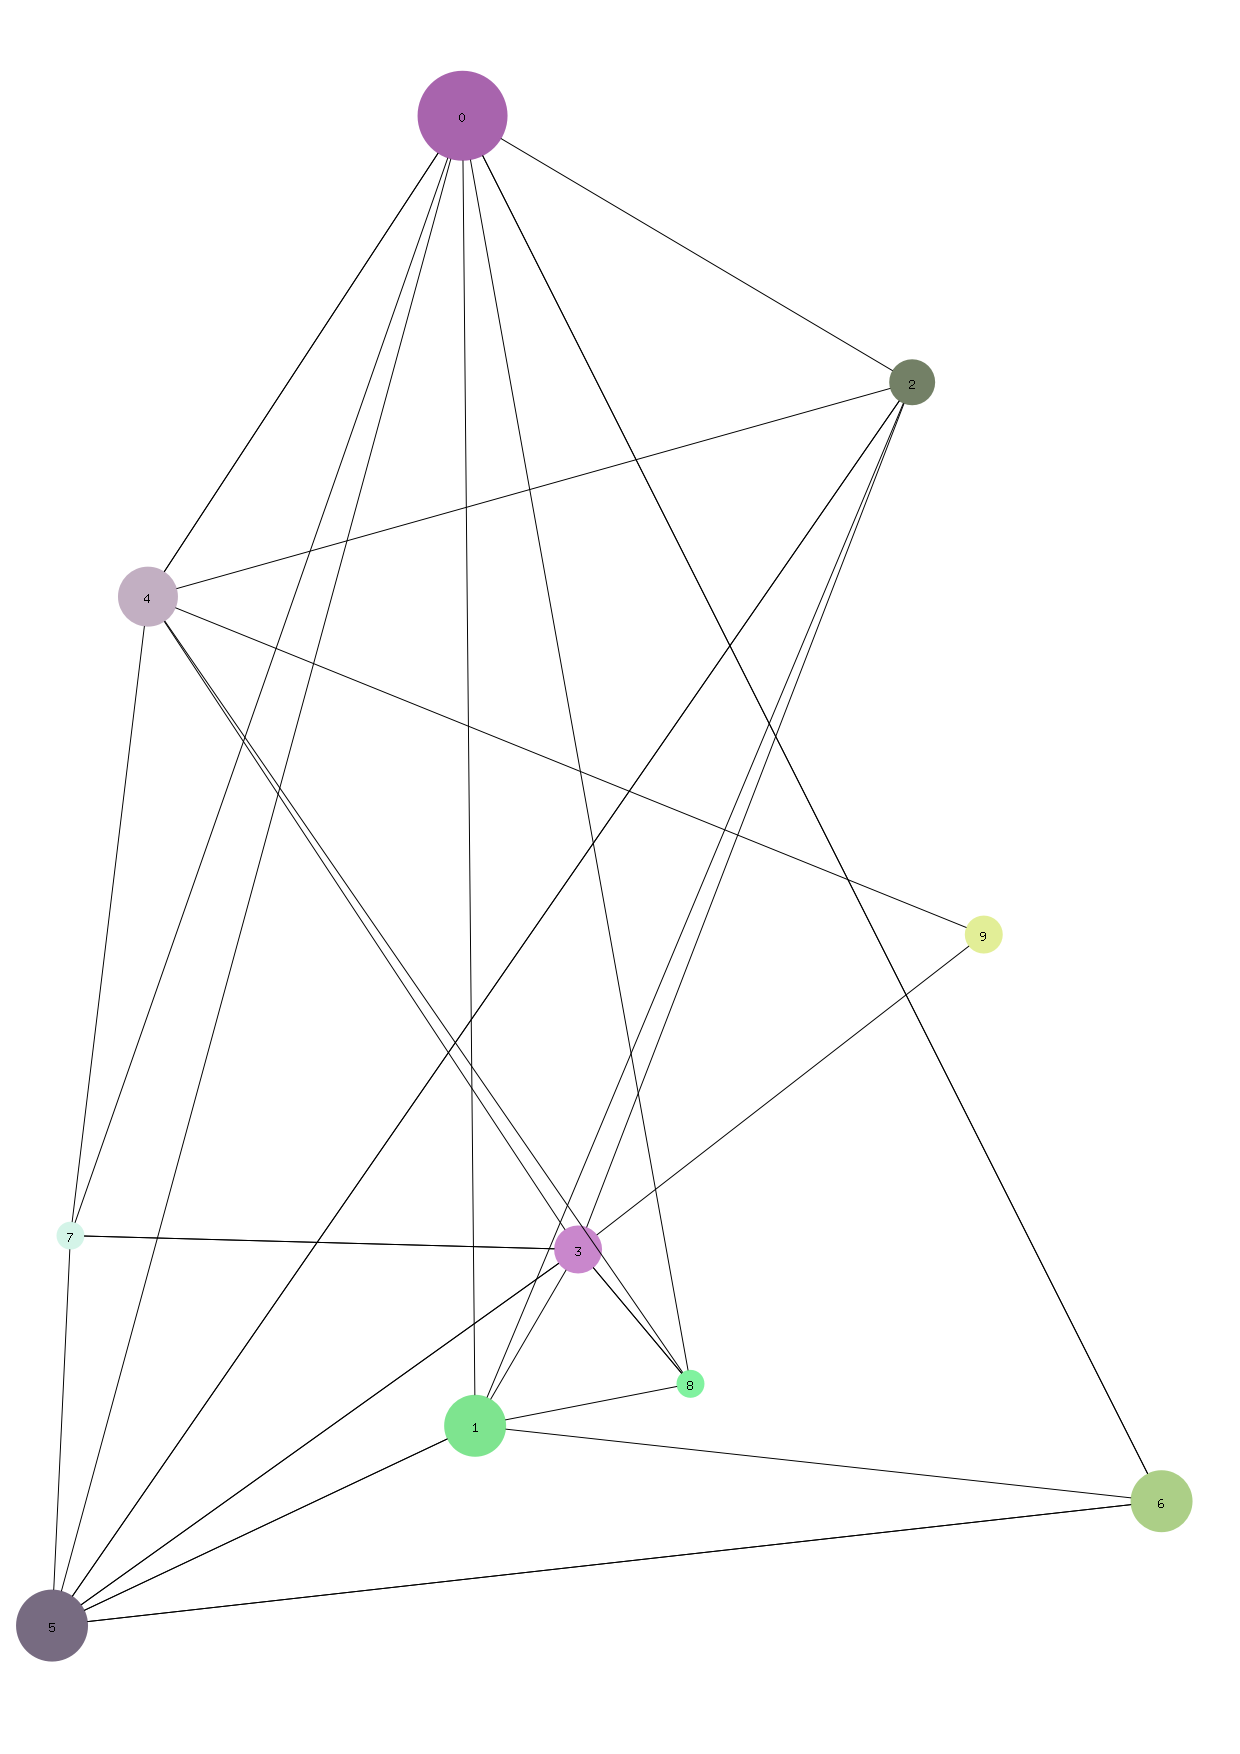
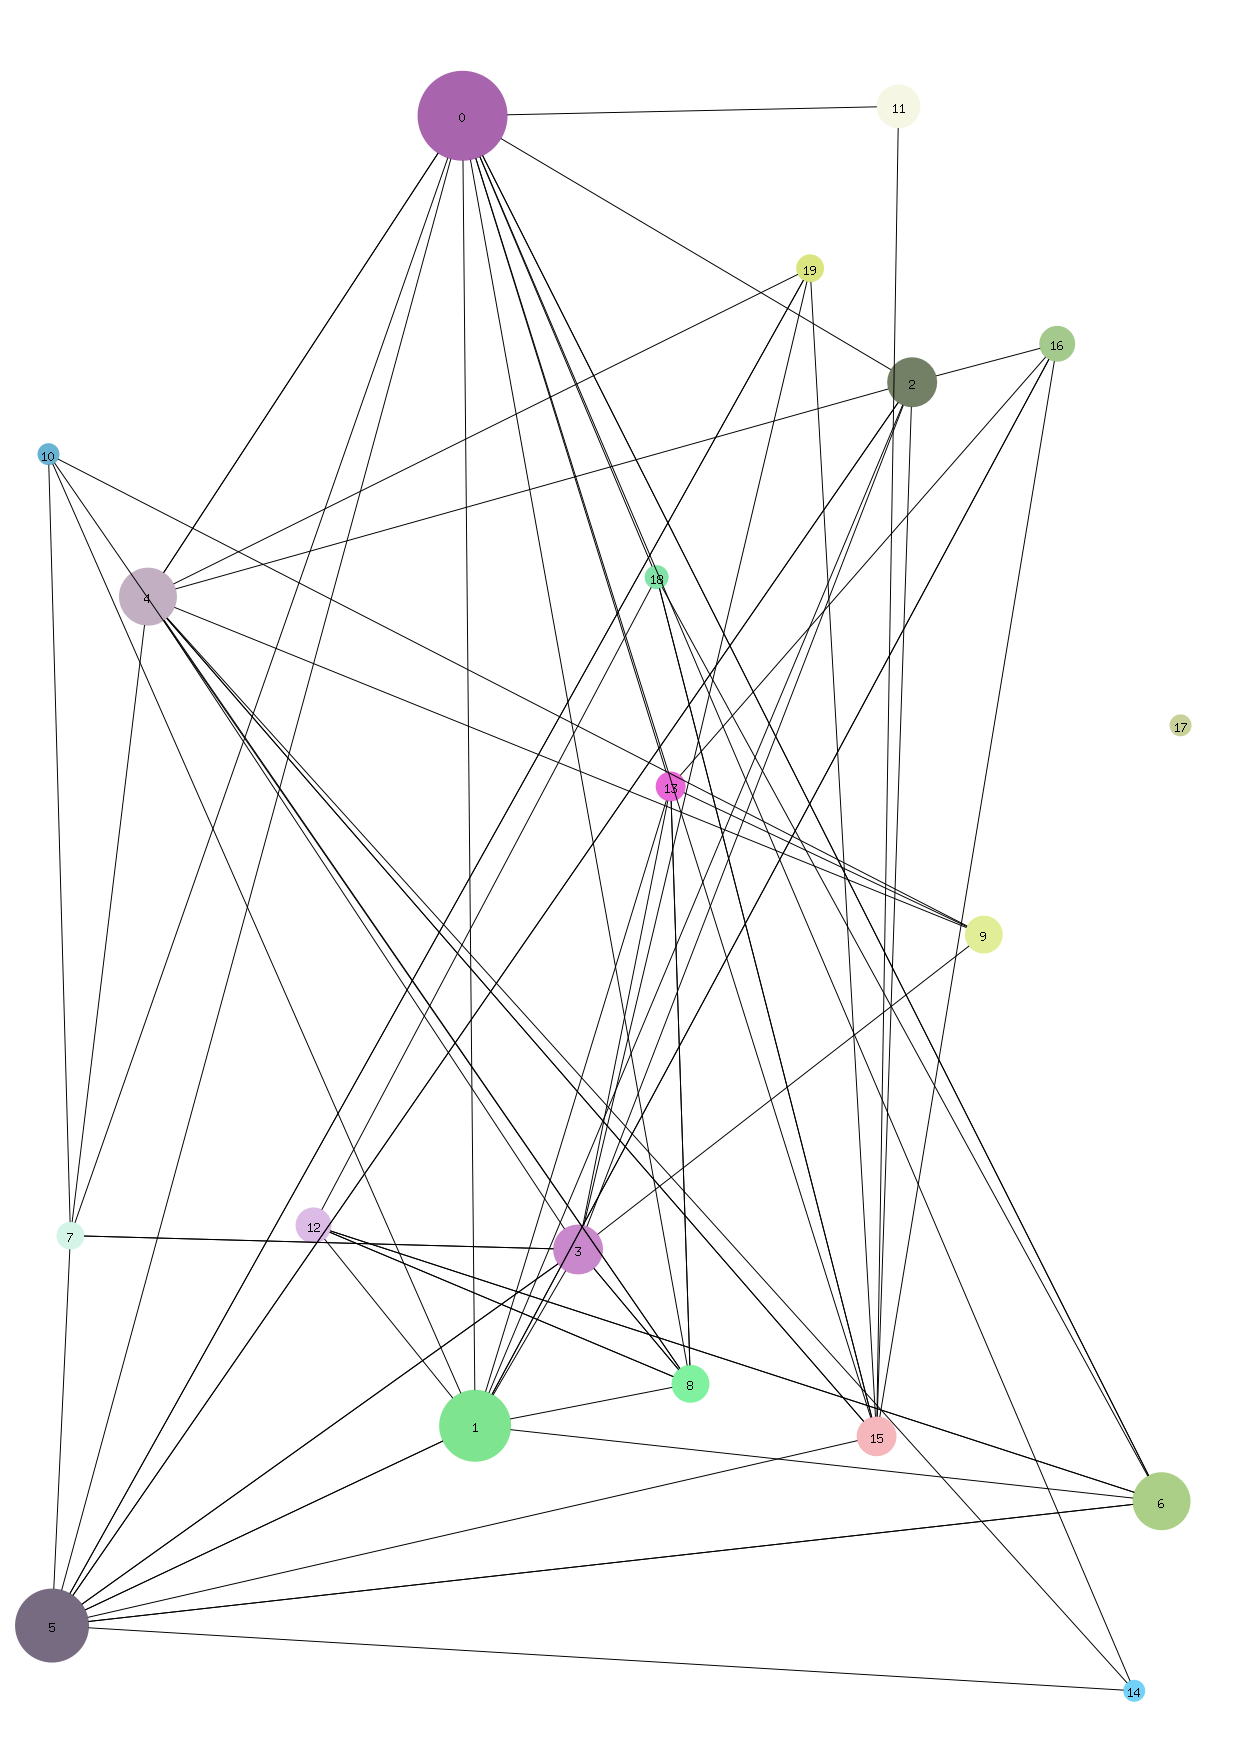
V2 of the program, now works with GRPC. Still some arrow doesn't print well

diff --git a/main/masterMain.go b/main/masterMain.go
@@ -17,7 +17,7 @@ import (
 
 func main() {
 	start := time.Now()
-	utils.CreateRandomGraph(10, 5, 3)
+	utils.CreateRandomGraph(20, 5, 3)
 
 	graph := utils.Convert(constants.GraphPath)
 	if graph == nil {
